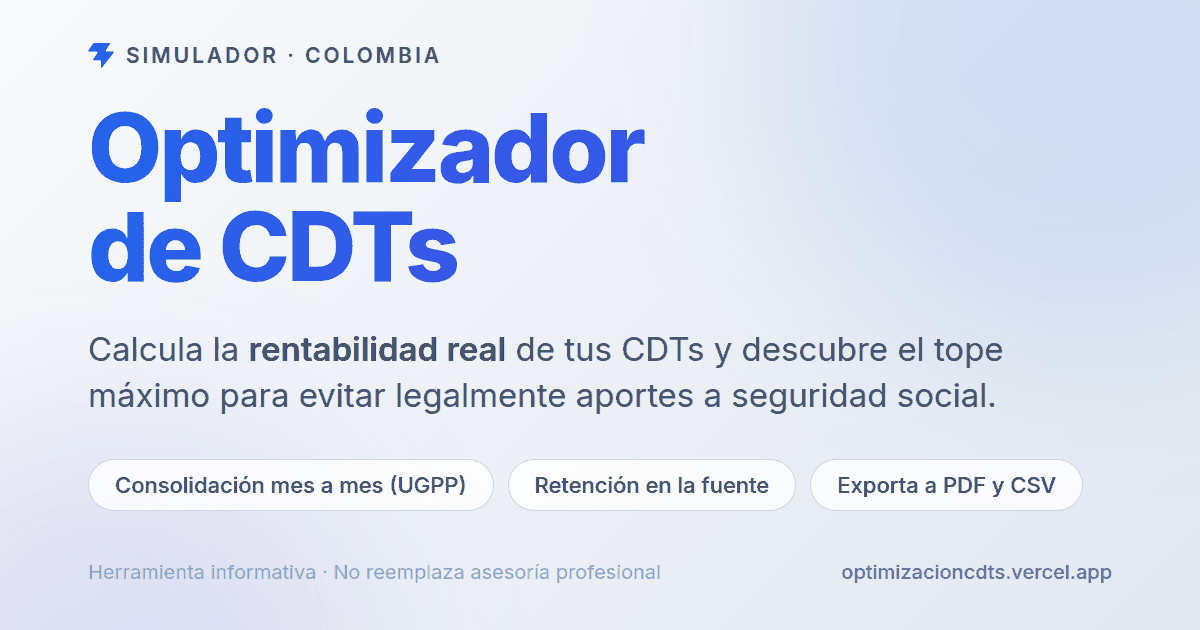
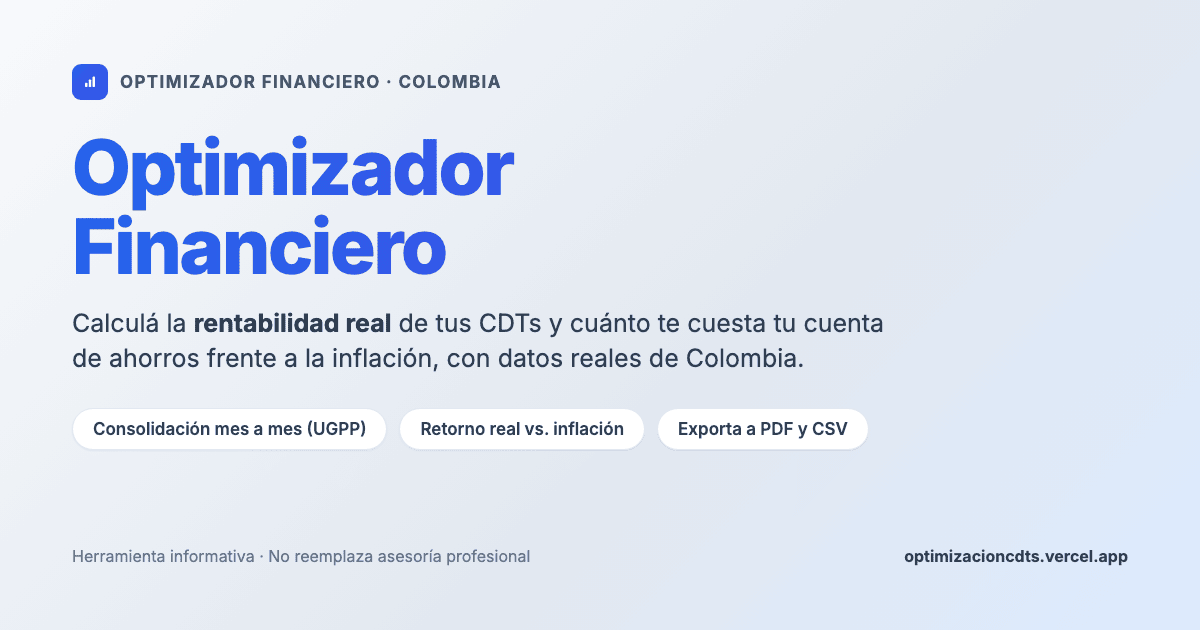
Rebrand a Optimizador Financiero: título, meta tags y og-image
La app dejó de ser solo de CDTs (ver pestaña de cuenta de ahorros ya
mergeada). Actualiza el título, la meta description, los tags Open Graph
y Twitter Card, y regenera og-image.png con el nuevo diseño (mismo ícono
de "barras en alza" del favicon, menciona ambas herramientas).

og-image.png pasó de 327 KB (captura sin comprimir) a 38 KB comprimido
con pngquant, más liviano que el original de 112 KB, sin pérdida visible
de calidad.

diff --git a/index.html b/index.html
@@ -5,10 +5,10 @@
     <link rel="icon" type="image/svg+xml" href="/favicon.svg" />
     <meta name="viewport" content="width=device-width, initial-scale=1.0" />
 
-    <title>Optimizador de CDTs | Rentabilidad real y tope sin seguridad social</title>
+    <title>Optimizador Financiero | CDTs y cuentas de ahorro en Colombia</title>
     <meta
       name="description"
-      content="Simulador gratuito para calcular la rentabilidad real de tus CDTs en Colombia: descuenta retención en la fuente, consolida los intereses mes a mes como exige la UGPP y calcula el tope máximo de inversión para evitar legalmente aportes a seguridad social."
+      content="Simulador gratuito para optimizar tu plata en Colombia: calcula la rentabilidad real de tus CDTs (retención, UGPP, tope de seguridad social) y descubrí si tu cuenta de ahorros gana o pierde frente a la inflación."
     />
     <meta name="author" content="luis14rada" />
     <link rel="canonical" href="https://optimizacioncdts.vercel.app/" />
@@ -19,28 +19,28 @@
 
     <!-- Vista previa al compartir el enlace (WhatsApp, LinkedIn, Slack, Facebook) -->
     <meta property="og:type" content="website" />
-    <meta property="og:site_name" content="Optimizador de CDTs" />
+    <meta property="og:site_name" content="Optimizador Financiero" />
     <meta property="og:locale" content="es_CO" />
     <meta property="og:url" content="https://optimizacioncdts.vercel.app/" />
-    <meta property="og:title" content="Optimizador de CDTs" />
+    <meta property="og:title" content="Optimizador Financiero" />
     <meta
       property="og:description"
-      content="Calcula la rentabilidad real de tus CDTs en Colombia y descubre el tope máximo para evitar legalmente aportes a seguridad social."
+      content="Calculá la rentabilidad real de tus CDTs y cuánto te cuesta tu cuenta de ahorros en Colombia, con datos reales y su fuente."
     />
     <meta property="og:image" content="https://optimizacioncdts.vercel.app/og-image.png" />
     <meta property="og:image:width" content="1200" />
     <meta property="og:image:height" content="630" />
     <meta
       property="og:image:alt"
-      content="Optimizador de CDTs: simulador para calcular la rentabilidad real de CDTs en Colombia."
+      content="Optimizador Financiero: simulador de CDTs y comparador de cuentas de ahorro en Colombia."
     />
 
     <!-- Vista previa en X / Twitter -->
     <meta name="twitter:card" content="summary_large_image" />
-    <meta name="twitter:title" content="Optimizador de CDTs" />
+    <meta name="twitter:title" content="Optimizador Financiero" />
     <meta
       name="twitter:description"
-      content="Calcula la rentabilidad real de tus CDTs en Colombia y descubre el tope máximo para evitar legalmente aportes a seguridad social."
+      content="Calculá la rentabilidad real de tus CDTs y cuánto te cuesta tu cuenta de ahorros en Colombia, con datos reales y su fuente."
     />
     <meta name="twitter:image" content="https://optimizacioncdts.vercel.app/og-image.png" />
   </head>
